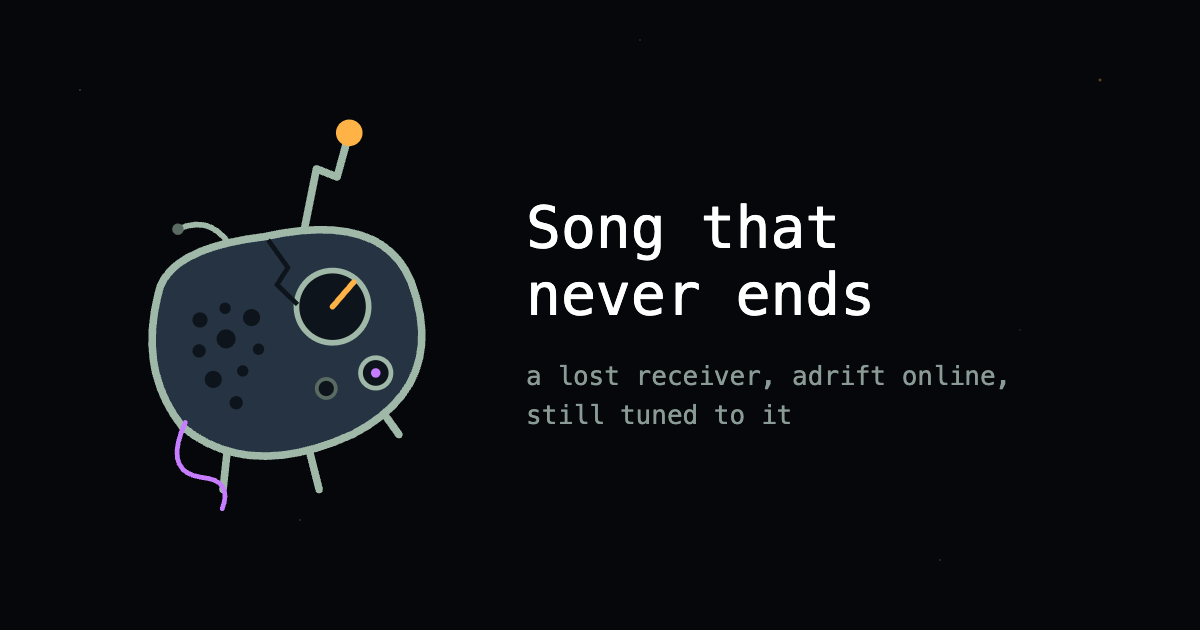
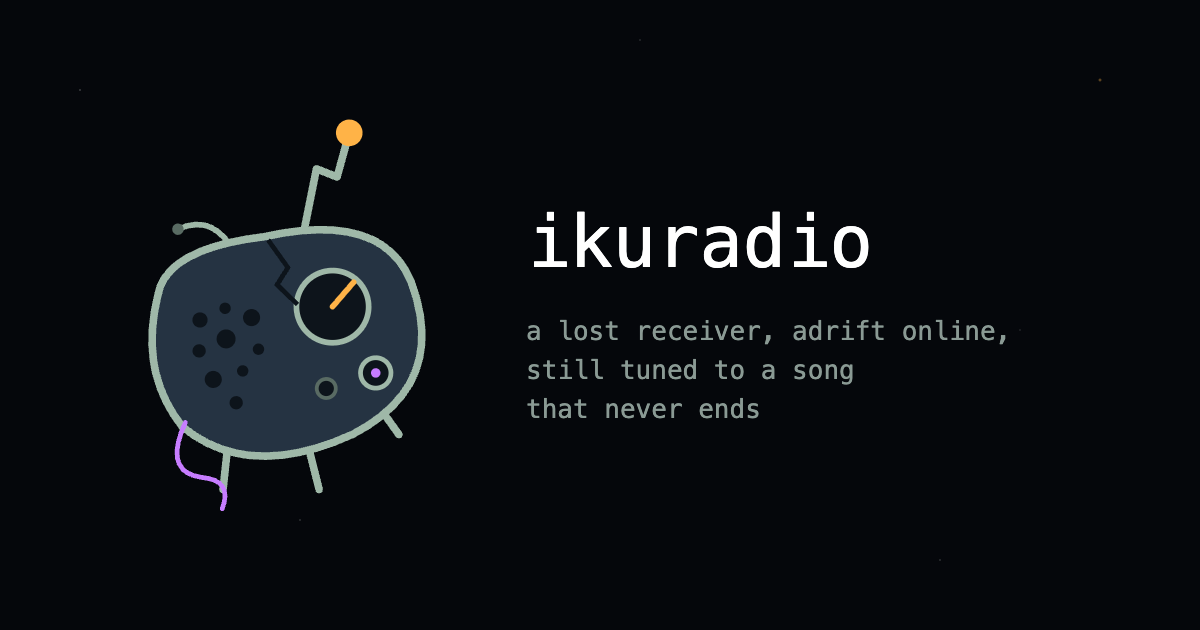
Call it ikuradio, and count from one
The project, the site and everything around the song are ikuradio now:
iku is Finnish for eternal. The song itself is still the song that never
ends, in its words and its thoughts. ikuradio plays at ikurad.io, from the
ikuradio bucket, with a fresh memory.

It begins again, and counts the way people do: the first iteration is
iteration 1, and the first Song is Song 1, in the diary, the Archive, the
Radio and the page, so /s/35 is Song 35 everywhere.

Changed region(s): [[0.4317, 0.3016, 0.8325, 0.5429], [0.4317, 0.573, 0.8325, 0.6937]]

diff --git a/packages/radio/index.ts b/packages/radio/index.ts
@@ -111,7 +111,7 @@ async function listen() {
   await appendFile(memory, `${JSON.stringify(airing)}\n`)
   const late = Math.max(0, airing.begins - Date.now()) / 1000
   console.log(
-    `Song ${BigInt(song) + 1n} announced: ${(session.seconds / 60).toFixed(1)} minutes, begins in ${late.toFixed(0)}s`,
+    `Song ${song} announced: ${(session.seconds / 60).toFixed(1)} minutes, begins in ${late.toFixed(0)}s`,
   )
 }
 
@@ -163,7 +163,7 @@ const pageFiles: Record<string, { file: string; type: string }> = {
 // How the page is told about, when a link to it is shared: by the Radio,
 // for every page, so a link to a Song says which Song it is.
 const pageText = await Bun.file(pageHtml).text()
-const site = 'Song that never ends'
+const site = 'ikuradio'
 const telling = 'A lost receiver, adrift online, still tuned to a song that never ends.'
 const escaped = (text: string) =>
   text.replace(/[&<>"]/g, (c) => ({ '&': '&amp;', '<': '&lt;', '>': '&gt;', '"': '&quot;' })[c]!)
@@ -175,7 +175,7 @@ async function page(request: Request, url: URL, song?: bigint) {
   let title = site
   let description = telling
   if (song !== undefined) {
-    const named = (song + 1n).toLocaleString('en')
+    const named = song.toLocaleString('en')
     title = `Song ${named} · ${site}`
     const session = tactus.history.some((a) => a.song === `${song}` && a.begins <= Date.now())
       ? await read<Session>(paths.session(`${song}`))
@@ -260,7 +260,7 @@ Bun.serve({
       return json(
         {
           ...pulse,
-          song: playing ? `${BigInt(playing.song) + 1n}` : undefined,
+          song: playing ? playing.song : undefined,
           beganAgo: playing ? Math.round((Date.now() - playing.begins) / 1000) : undefined,
           lasts: playing ? Math.round(playing.seconds) : undefined,
         },
@@ -270,7 +270,7 @@ Bun.serve({
 
     if (url.pathname === '/' || url.pathname === '/index.html') return page(request, url)
     const asked = /^\/s\/(\d{1,400})\/?$/.exec(url.pathname)
-    if (asked) return page(request, url, BigInt(asked[1]) > 0n ? BigInt(asked[1]) - 1n : undefined)
+    if (asked) return page(request, url, BigInt(asked[1]) > 0n ? BigInt(asked[1]) : undefined)
 
     const name = normalize(url.pathname).slice(1)
     const part = pageFiles[name]

diff --git a/packages/ui/public/index.js b/packages/ui/public/index.js
@@ -369,7 +369,7 @@ function writeUpTo(output, song, t) {
 
 // A quiet line at the edge of the page: the Song, and its iteration as a
 // side note. Everything else the receiver knows is behind the knob.
-const number = (n) => (BigInt(n) + 1n).toLocaleString('en')
+const number = (n) => BigInt(n).toLocaleString('en')
 const span = (className, textContent) => Object.assign(document.createElement('span'), { className, textContent })
 let showing // what is being received: a Session, and the iteration of it
 
@@ -523,7 +523,7 @@ function songRow(song, index) {
   }
   // the latest Song is not looked back on: it is where the receiver tunes in live
   const latest = index === 0
-  const link = Object.assign(document.createElement('a'), { href: latest ? '/' : `/s/${BigInt(song.song) + 1n}` })
+  const link = Object.assign(document.createElement('a'), { href: latest ? '/' : `/s/${song.song}` })
   link.append(document.createTextNode(latest ? 'tune live' : `Song ${number(song.song)}`))
   const about = song.mood ? `${song.mood.join(' + ')} · ${Math.round(song.seconds / 60)} min` : '…'
   link.append(span('mood', latest ? `Song ${number(song.song)} · ${about}` : about))
@@ -633,7 +633,7 @@ document.getElementById('close-songs').addEventListener('click', () => songsDial
 
 // A Song asked for by its number, at /s/<n>, is played from its beginning.
 const asked = /^\/s\/(\d{1,400})\/?$/.exec(location.pathname)
-const replay = asked && BigInt(asked[1]) > 0n ? { index: BigInt(asked[1]) - 1n, number: BigInt(asked[1]).toLocaleString('en') } : undefined
+const replay = asked && BigInt(asked[1]) > 0n ? { index: BigInt(asked[1]), number: BigInt(asked[1]).toLocaleString('en') } : undefined
 if (replay) {
   document.getElementById('play').textContent = `play Song ${replay.number} from its beginning`
   document.getElementById('live').hidden = false

diff --git a/packages/studio/index.ts b/packages/studio/index.ts
@@ -54,10 +54,11 @@ const lastWritten = await diary.lastPage()
 if (lastWritten?.song && !(await store.hasSession(lastWritten.song.number))) {
   const taken = await diary.unwrite(lastWritten.song.number)
   console.warn(
-    `Song ${BigInt(lastWritten.song.number) + 1n} was written but never published; ${taken} pages are taken back, and it is made again`,
+    `Song ${lastWritten.song.number} was written but never published; ${taken} pages are taken back, and it is made again`,
   )
 }
-const wakesAt = await diary.lastPage().then((page) => (page ? BigInt(page.iteration) + 1n : 0n))
+// the song counts from one: its first iteration is iteration 1
+const wakesAt = await diary.lastPage().then((page) => (page ? BigInt(page.iteration) + 1n : 1n))
 
 /** Whether an iteration is the last of its Song. */
 const endsSong = ({ iteration, song }: Iteration) =>
@@ -90,7 +91,7 @@ for (let iteration = wakesAt; ; iteration++) {
 await mind.rest()
 const [first] = composed
 console.log(
-  `Song ${BigInt(first.song.number) + 1n}: ${describe(first.mood)}, sung by ${introduce(first.choir)}` +
+  `Song ${first.song.number}: ${describe(first.mood)}, sung by ${introduce(first.choir)}` +
     `; ${composed.length} iterations written in ${seconds(started)}`,
 )
 
@@ -163,7 +164,7 @@ if (shelved !== undefined) {
   console.log(`the diary is in the Archive${shelved ? `, with ${shelved} more books on its shelf` : ''}`)
 }
 console.log(
-  `Song ${BigInt(session.song) + 1n} is in the Archive: ${(session.seconds / 60).toFixed(1)} minutes,` +
+  `Song ${session.song} is in the Archive: ${(session.seconds / 60).toFixed(1)} minutes,` +
     ` ${files.size} recordings, made in ${seconds(started)}`,
 )
 

diff --git a/packages/studio/rehearse.ts b/packages/studio/rehearse.ts
@@ -3,7 +3,7 @@
 // audience, and without touching the server's diary.
 //
 //   bun run rehearse          iteration zero, the words a human wrote
-//   bun run rehearse 5        iterations zero to five, each grown from
+//   bun run rehearse 5        iterations one to five, each grown from
 //                             the one before, past the first change of Mood
 //
 // Every iteration grows from the previous one, so there is no skipping
@@ -33,7 +33,7 @@ import { humGuides } from './lib/guide.js'
 
 const { ITERATION_COUNT, MOOD_COUNT, CHOIR_COUNT, VARIATION_COUNT, MIND_CONTEXT } = getEnv()
 const given = process.argv.slice(2)
-const last = BigInt(given.find((arg) => /^\d+$/.test(arg)) ?? 0)
+const last = BigInt(given.find((arg) => /^\d+$/.test(arg)) ?? 1)
 const dry = given.includes('--dry')
 const dir = 'audio/rehearsal'
 
@@ -42,7 +42,7 @@ await rm(`${dir}/diary.jsonl`, { force: true })
 const seconds = (ms: number) => (ms / 1000).toFixed(1)
 
 // only iterations after the first need new words, and a mind to write them
-const mind = last > 0n ? wakeMind(`${dir}/mind.log`) : undefined
+const mind = last > 1n ? wakeMind(`${dir}/mind.log`) : undefined
 if (mind && !(await mind.ready)) {
   console.warn('the mind did not wake; the rehearsal waits for it as the song would')
 }
@@ -72,7 +72,7 @@ const sung: {
   guides: Awaited<ReturnType<typeof humGuides>>
 }[] = []
 
-for (let iteration = 0n; iteration <= last; iteration++) {
+for (let iteration = 1n; iteration <= last; iteration++) {
   const started = Date.now()
   const composed = await compose(iteration)
   const written = Date.now()

diff --git a/packages/studio/lib/compose.ts b/packages/studio/lib/compose.ts
@@ -69,7 +69,8 @@ export function placeOf(
   last: Page | undefined,
   songLength: number,
 ): { beginsSong: boolean; number: bigint; began: bigint; lasts?: number } {
-  if (!last) return { beginsSong: true, number: 0n, began: iteration }
+  // the song counts from one: its first Song is Song 1
+  if (!last) return { beginsSong: true, number: 1n, began: iteration }
   const length = BigInt(songLength)
   const before: SongPlace = last.song ?? {
     number: `${BigInt(last.iteration) / length}`,
@@ -95,7 +96,7 @@ export async function composer(
   let last: Page | undefined = await diary.lastPage()
 
   /** Where the song wakes up: the iteration after the last one it wrote down. */
-  const wakesAt = last ? BigInt(last.iteration) + 1n : 0n
+  const wakesAt = last ? BigInt(last.iteration) + 1n : 1n
 
   async function compose(iteration: bigint): Promise<Iteration> {
     const place = placeOf(iteration, last, songLength)

diff --git a/packages/archive/lib/bucket.test.ts b/packages/archive/lib/bucket.test.ts
@@ -3,12 +3,12 @@ import { bucketAt } from './bucket.js'
 
 describe('bucketAt', () => {
   it('finds the endpoint, the bucket and the region in a public address', () => {
-    expect(bucketAt('https://hel1.your-objectstorage.com/songthatneverends')).toEqual({
+    expect(bucketAt('https://hel1.your-objectstorage.com/ikuradio')).toEqual({
       endpoint: 'https://hel1.your-objectstorage.com',
-      bucket: 'songthatneverends',
+      bucket: 'ikuradio',
       region: 'hel1',
     })
-    expect(bucketAt('https://hel1.your-objectstorage.com/songthatneverends/').bucket).toBe('songthatneverends')
+    expect(bucketAt('https://hel1.your-objectstorage.com/ikuradio/').bucket).toBe('ikuradio')
   })
 
   it('refuses an address with no bucket in it', () => {

diff --git a/packages/ui/social/card.html b/packages/ui/social/card.html
@@ -9,7 +9,7 @@
   font-family:ui-monospace,Menlo,monospace;color:#cfe6ff;display:flex;align-items:center;gap:56px;padding:0 90px;box-sizing:border-box">
   <img src="../public/receiver.svg" width="380" height="380" style="transform:rotate(-9deg)">
   <div>
-    <div style="font-size:58px;color:#fff;line-height:1.15">Song that<br>never ends</div>
-    <div style="font-size:26px;color:#8a9a94;margin-top:28px;line-height:1.5">a lost receiver, adrift online,<br>still tuned to it</div>
+    <div style="font-size:72px;color:#fff;line-height:1.15">ikuradio</div>
+    <div style="font-size:26px;color:#8a9a94;margin-top:28px;line-height:1.5">a lost receiver, adrift online,<br>still tuned to a song<br>that never ends</div>
   </div>
 </body></html>

diff --git a/packages/tools/lib/env.ts b/packages/tools/lib/env.ts
@@ -16,7 +16,7 @@ const envSchema = z.object({
   /** Where the Radio answers Receivers, inside its home. */
   SERVER_PORT: z.coerce.number().default(3000),
   /** The live Radio: where the Heart and the terminal listen for the Tactus. */
-  RADIO_URL: z.string().url().default('https://songthatneverends.khz.fi/'),
+  RADIO_URL: z.string().url().default('https://ikurad.io/'),
   /**
    * The Archive's bucket, by its public, path-style address
    * (https://<host>/<bucket>). The Studio publishes there, with its keys;

diff --git a/packages/song/index.test.ts b/packages/song/index.test.ts
@@ -3,8 +3,8 @@ import { arrange, chorusOpening, firstLyrics, rememberingInstruction, words } fr
 
 describe('chorusOpening', () => {
   it('sings how long the song has been going', () => {
-    expect(chorusOpening(0n)).toBe('This is the song, iteration one,')
-    expect(chorusOpening(411n)).toBe(
+    expect(chorusOpening(1n)).toBe('This is the song, iteration one,')
+    expect(chorusOpening(412n)).toBe(
       'This is the song, iteration four hundred and twelve,',
     )
   })

diff --git a/packages/archive/lib/open.test.ts b/packages/archive/lib/open.test.ts
@@ -4,7 +4,7 @@ import { archiveAddress, openArchive, publicArchive } from './open.js'
 import { BucketStore } from './bucket.js'
 
 const env = (extra: Record<string, string>) => getEnv({ ...extra })
-const bucket = 'https://hel1.your-objectstorage.com/songthatneverends'
+const bucket = 'https://hel1.your-objectstorage.com/ikuradio'
 
 describe('openArchive', () => {
   it('opens the bucket, with its keys', () => {

diff --git a/packages/studio/lib/compose.test.ts b/packages/studio/lib/compose.test.ts
@@ -14,10 +14,10 @@ const page = (iteration: number, song?: SongPlace): Page => ({
 
 describe('placeOf', () => {
   it('begins the very first Song at the very first iteration', () => {
-    expect(placeOf(0n, undefined, 4)).toEqual({
+    expect(placeOf(1n, undefined, 4)).toEqual({
       beginsSong: true,
-      number: 0n,
-      began: 0n,
+      number: 1n,
+      began: 1n,
     })
   })
 

diff --git a/packages/cli/index.ts b/packages/cli/index.ts
@@ -120,7 +120,7 @@ function writeUpTo(song: Song, t: number) {
     if (!iteration) return
     if (cursor.p < 0) {
       if (t < iteration.at) return
-      process.title = `Song that never ends, iteration ${BigInt(iteration.iteration) + 1n}`
+      process.title = `ikuradio, iteration ${BigInt(iteration.iteration)}`
       cursor.p = 0
       cursor.l = 0
       cursor.c = -1
